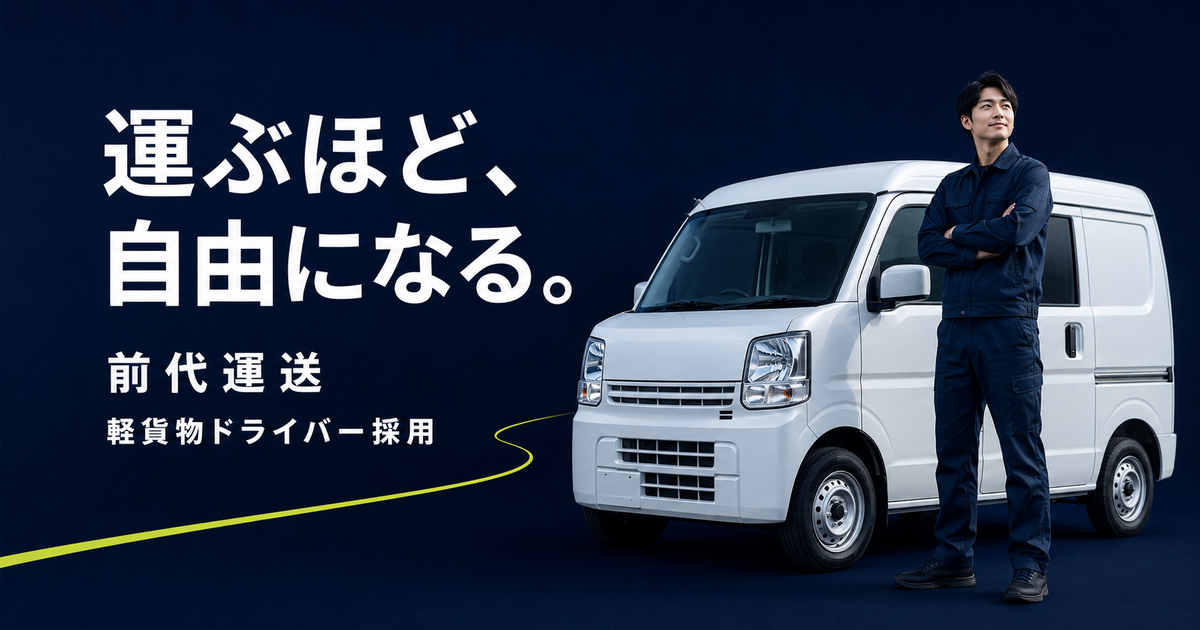
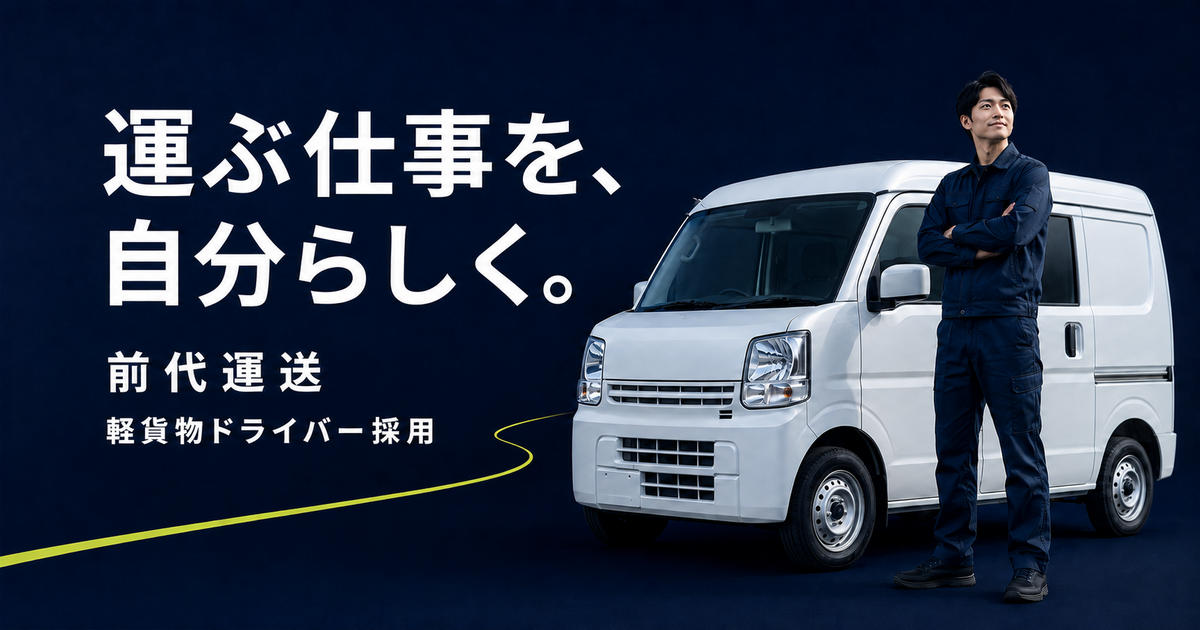
トップコピーを「運ぶ仕事を、自分らしく。」へ更新 (#7)
ヒーロー、共有メタデータ、SNS共有画像のコピーを統一。

diff --git a/app/layout.tsx b/app/layout.tsx
@@ -34,7 +34,7 @@ export const metadata: Metadata = {
     canonical: siteUrl,
   },
   openGraph: {
-    title: "運ぶほど、自由になる。｜前代運送",
+    title: "運ぶ仕事を、自分らしく。｜前代運送",
     description: siteDescription,
     type: "website",
     locale: "ja_JP",
@@ -44,13 +44,13 @@ export const metadata: Metadata = {
         url: `${siteUrl}/og.png`,
         width: 1200,
         height: 630,
-        alt: "運ぶほど、自由になる。 前代運送 軽貨物ドライバー採用",
+        alt: "運ぶ仕事を、自分らしく。 前代運送 軽貨物ドライバー採用",
       },
     ],
   },
   twitter: {
     card: "summary_large_image",
-    title: "運ぶほど、自由になる。｜前代運送",
+    title: "運ぶ仕事を、自分らしく。｜前代運送",
     description: siteDescription,
     images: [`${siteUrl}/og.png`],
   },

diff --git a/app/page.tsx b/app/page.tsx
@@ -193,9 +193,9 @@ export default function Home() {
               軽貨物ドライバー募集
             </p>
             <h1>
-              運ぶほど、
+              運ぶ仕事を、
               <br />
-              <em>自由</em>になる。
+              <em>自分らしく</em>。
             </h1>
             <p className="hero-lead">
               未経験から、あなたらしい働き方へ。
